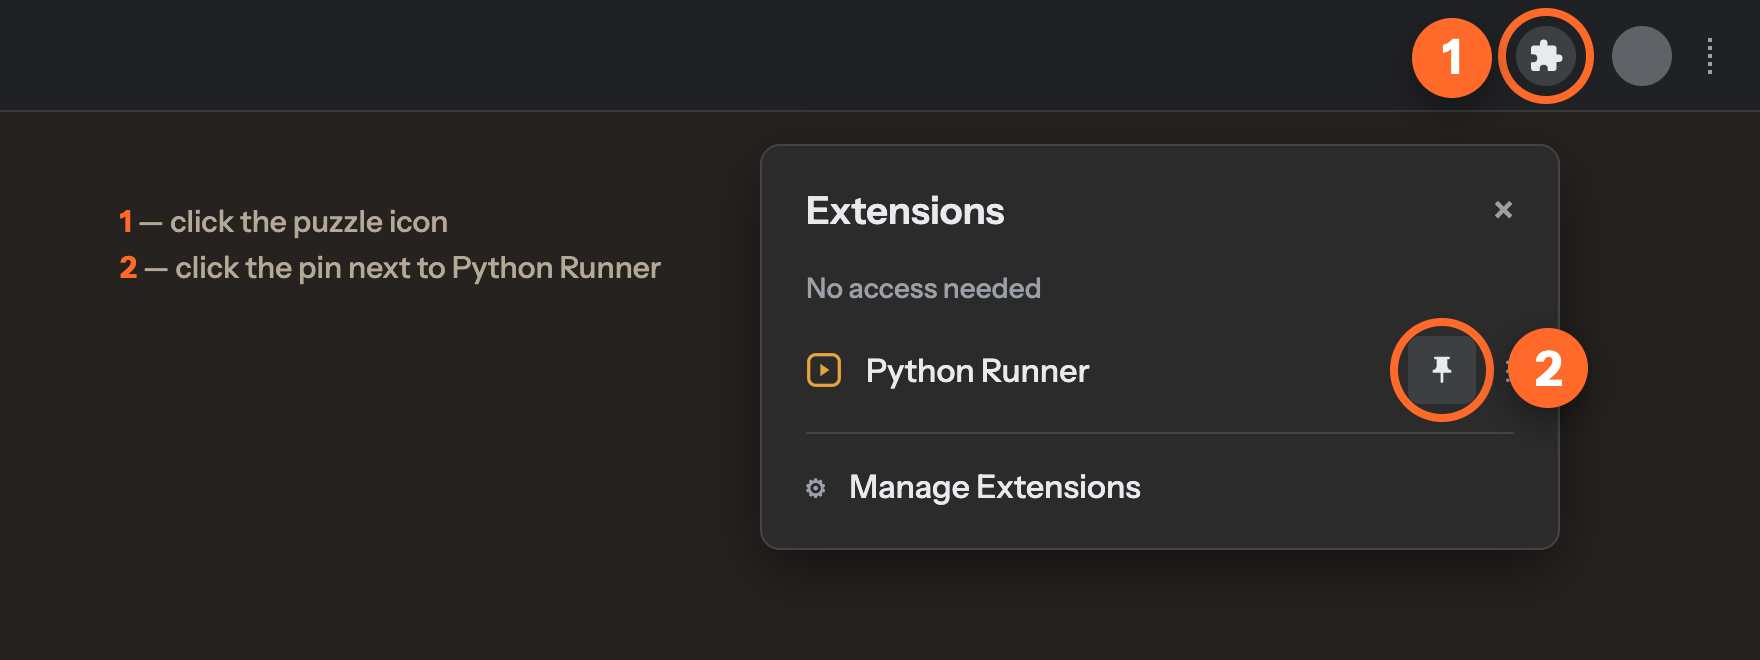
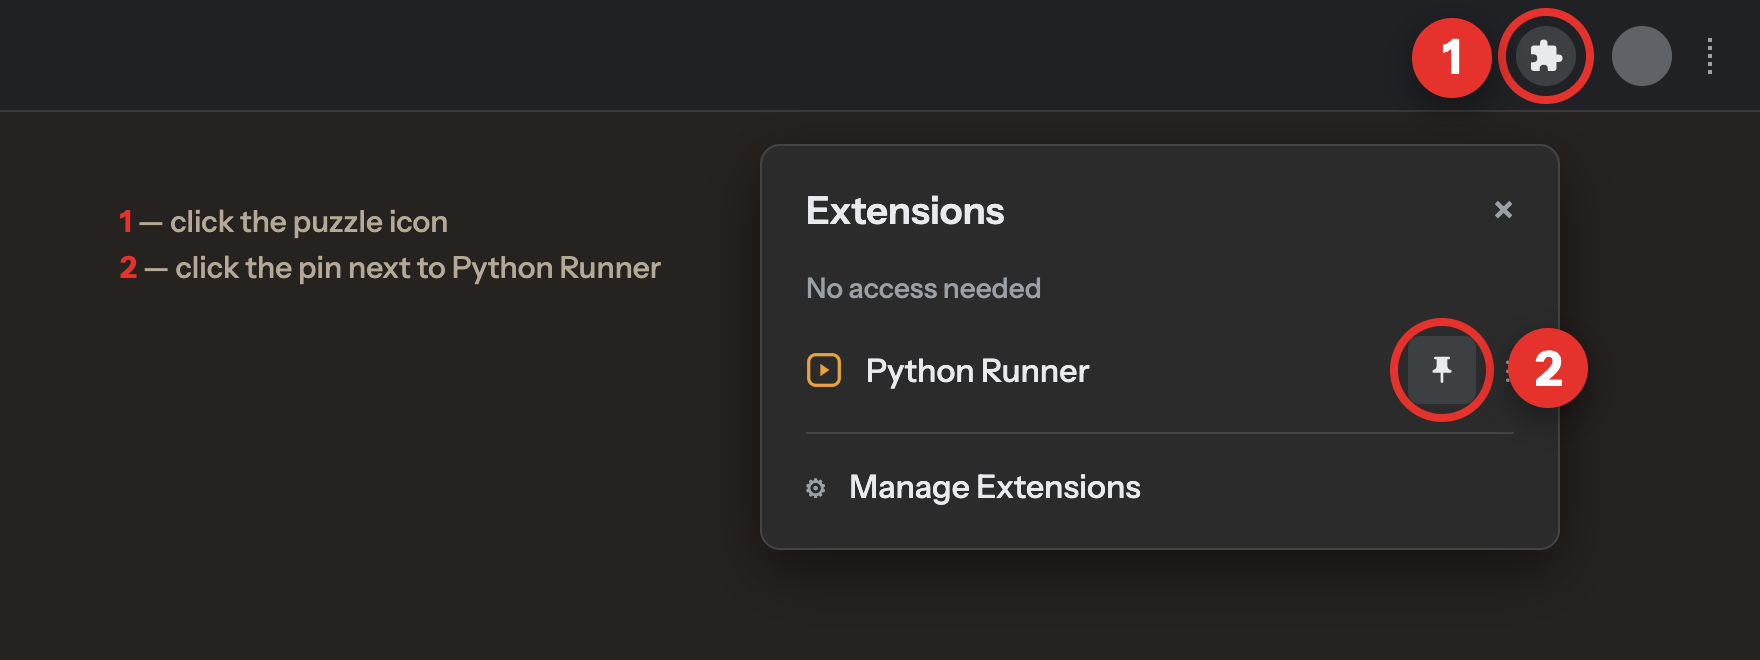
Welcome: drop the right-click step and CTA, red annotations, tighter fold

Changed region(s): [[0.7812, 0.0, 0.9062, 0.1515], [0.7812, 0.4848, 0.9062, 0.6364], [0.0625, 0.3939, 0.0938, 0.4242]]

diff --git a/welcome/index.html b/welcome/index.html
@@ -15,7 +15,7 @@
     font: 17px/1.55 "Instrument Sans", ui-sans-serif, system-ui, sans-serif;
     font-synthesis: none;
   }
-  .shell { max-width: 780px; margin: 0 auto; padding: 32px 24px 80px; }
+  .shell { max-width: 780px; margin: 0 auto; padding: 24px 24px 64px; }
 
   .brand { display: flex; align-items: center; gap: 13px; margin-bottom: 26px; }
   .mark { display: flex; flex: 0 0 auto; }
@@ -23,9 +23,9 @@
 
   h1 { font-size: 31px; line-height: 1.16; letter-spacing: -0.02em; text-wrap: balance; }
   h1 em { font-style: normal; color: #e8a33d; }
-  .lede { margin-top: 12px; font-size: 18px; color: #b3a996; max-width: 56ch; }
+  .lede { margin-top: 10px; font-size: 18px; color: #b3a996; max-width: 56ch; }
 
-  .step { margin-top: 34px; }
+  .step { margin-top: 26px; }
   .step h2 { font-size: 24px; letter-spacing: -0.01em; }
   .step > p { margin-top: 8px; color: #b3a996; max-width: 58ch; }
 
@@ -33,20 +33,16 @@
   .shot {
     position: relative; margin-top: 16px; border-radius: 14px; overflow: hidden;
     border: 1px solid #3a332c; box-shadow: 0 18px 50px rgba(0,0,0,.4); background: #262220;
-    width: min(94vw, 1000px);
+    width: min(94vw, 780px);
     left: 50%; transform: translateX(-50%);
   }
   .shot img { width: 100%; height: auto; display: block; }
 
-  .cta-block { margin-top: 52px; text-align: center; }
-  .cta {
-    display: inline-block; padding: 16px 30px; border-radius: 13px;
+        display: inline-block; padding: 16px 30px; border-radius: 13px;
     background: #e8a33d; color: #1b1815; font-weight: 700; text-decoration: none; font-size: 19px;
   }
-  .cta:hover { background: #f0b254; }
-
-  .cta-note { margin-top: 12px; font-size: 14px; color: #8f867a; }
-  strong { font-weight: 600; color: #f2ece2; }
+  
+    strong { font-weight: 600; color: #f2ece2; }
   footer { margin-top: 56px; padding-top: 24px; border-top: 1px solid #3a332c; font-size: 14px; color: #8f867a; }
   footer a { color: #b3a996; }
 </style>
@@ -67,23 +63,11 @@
     <section class="step">
       <h2>Click the icon, then “Open Python Runner”</h2>
       <p>The runner opens in its own tab: editor on the left, output on the right. The first start
-         unpacks Python once and takes a couple of seconds; after that it opens instantly.</p>
+         unpacks Python once and takes a couple of seconds; after that it opens instantly.<br>Tip: select Python on any page and right-click — <strong>Run selected Python</strong> opens it here.</p>
       <div class="shot">
         <img src="step-3-popup.png" alt="Python Runner popup opened from the toolbar icon; step 3 — the Open Python Runner button" width="1760" height="960">
       </div>
     </section>
-    <section class="step">
-      <h2>Or right-click any code on any page</h2>
-      <p>Select a snippet in the docs, on GitHub or in a chat, choose <strong>Run selected Python</strong> —
-         the runner opens with the code pasted in, indentation intact, and runs it right away.</p>
-      <div class="shot">
-        <img src="step-4-context-menu.png" alt="A page with selected Python code and the right-click menu; step 4 — the Run selected Python item" width="1760" height="760">
-      </div>
-    </section>
-    <div class="cta-block">
-      <a class="cta" href="https://docs.python.org/3/library/statistics.html#statistics.median" target="_blank" rel="noopener">Try it on the Python docs →</a>
-      <p class="cta-note">Opens docs.python.org — select any example and right-click.</p>
-    </div>
     <footer>
       Questions or a bug? <a href="https://github.com/anastasialekasova-hub/python-runner-pages/issues" target="_blank" rel="noopener">Open an issue on GitHub</a>.
       &nbsp;·&nbsp; <a href="https://anastasialekasova-hub.github.io/python-runner-privacy/">Privacy</a>
